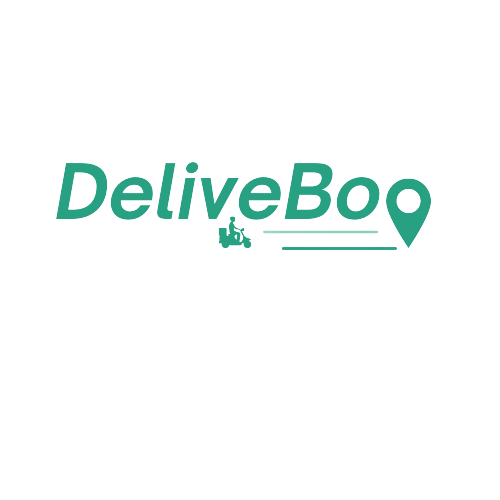
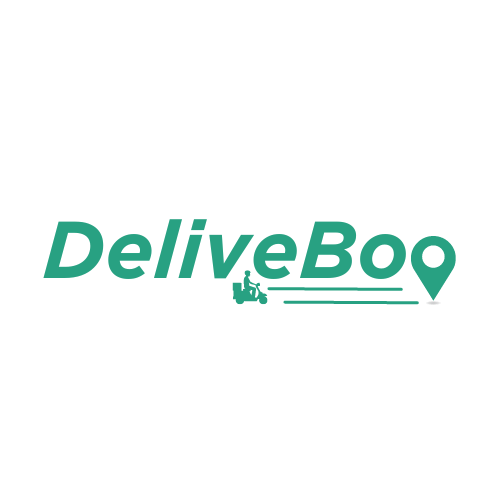
Add: Pagination and Loader edited

Changed region(s): [[0.09, 0.3, 0.93, 0.63]]

diff --git a/src/pages/RestaurantsPage.vue b/src/pages/RestaurantsPage.vue
@@ -3,12 +3,14 @@ import axios from "axios";
 import { store } from "../store.js";
 import SectionJumbo from "../components/SectionJumbo.vue";
 import RestaurantCard from "../components/RestaurantCard.vue";
+import Pagination from "../components/Pagination.vue";
 
 export default {
   name: "RestaurantsPage",
   components: {
     SectionJumbo,
     RestaurantCard,
+    Pagination
   },
   data() {
     return {
@@ -16,7 +18,6 @@ export default {
       restaurants: [],
       currentPage: 1,
       lastPage: null,
-      allRestaurants: 0,
       loading: false,
       types: [],
 
@@ -33,10 +34,21 @@ export default {
         this.types = resp.data.results;
       });
     },
-    getRestaurants() {
-      axios.get(`${store.ApiRestaurantsUrl}`).then((resp) => {
+    getRestaurants(pageNumber = 1) {
+      this.loading = true;
+      const params = {
+        page: pageNumber
+      }
+
+      axios.get(`${store.ApiRestaurantsUrl}`, { params }).then((resp) => {
         console.log(resp);
         this.restaurants = resp.data.results.data;
+        this.currentPage = resp.data.results.current_page;
+        // console.log(this.currentPage);
+        this.lastPage = resp.data.results.last_page;
+        this.allRestaurants = resp.data.results.total;
+      }).finally(() => {
+        this.loading = false;
       });
     }
   }
@@ -56,16 +68,22 @@ export default {
       <main class="text-center my-5 ms_main">
         <div class="container-fluid my-3">
           <div class="row row-cols-5 g-3 justify-content-center flex-wrap">
+
+            <!-- Card Section -->
             <div class="ms_col" v-for="restaurant in restaurants" :key="restaurant.name">
               <RestaurantCard :restaurant="restaurant" />
             </div>
           </div>
+
+
+          <!-- Pagination -->
+          <Pagination :currentPage="currentPage" :lastPage="lastPage" @changePage="getRestaurants" />
         </div>
       </main>
     </section>
 
     <section v-else>
-      <h1 class="">Caricamento...</h1>
+      <span class="text-center ms_loader"></span>
     </section>
 
 
@@ -90,5 +108,64 @@ export default {
       }
     }
   }
-}
-</style>
+  .ms_loader {
+    width: 48px;
+    height: 48px;
+    display: block;
+    margin: 20px auto;
+    box-sizing: border-box;
+    position: relative;
+  }
+
+  .ms_loader::after {
+    content: '';
+    box-sizing: border-box;
+    width: 48px;
+    height: 48px;
+    left: 0;
+    bottom: 0;
+    position: absolute;
+    border-radius: 50% 50% 0;
+    border: 15px solid $green_deli;
+    transform: rotate(45deg) translate(0, 0);
+    box-sizing: border-box;
+    animation: animMarker 0.4s ease-in-out infinite alternate;
+  }
+
+  .ms_loader::before {
+    content: '';
+    box-sizing: border-box;
+    position: absolute;
+    left: 0;
+    right: 0;
+    margin: auto;
+    top: 150%;
+    width: 24px;
+    height: 4px;
+    border-radius: 50%;
+    background: rgba(0, 0, 0, 0.2);
+    animation: animShadow 0.4s ease-in-out infinite alternate;
+  }
+
+  @keyframes animMarker {
+    0% {
+      transform: rotate(45deg) translate(5px, 5px);
+    }
+
+    100% {
+      transform: rotate(45deg) translate(-5px, -5px);
+    }
+  }
+
+  @keyframes animShadow {
+    0% {
+      transform: scale(0.5);
+    }
+
+    100% {
+      transform: scale(1);
+    }
+  }
+
+
+}</style>

diff --git a/src/components/Pagination.vue b/src/components/Pagination.vue
@@ -1,0 +1,53 @@
+<script>
+export default {
+    name: "Pagination",
+    props: {
+        currentPage: Number,
+        lastPage: Number
+    },
+    emits: [
+        "changePage"
+    ]
+}
+
+</script>
+
+<template>
+    <div>
+        <nav class="mt-4 d-flex justify-content-center" aria-label="Page navigation example">
+            <ul class="pagination">
+
+                <!-- Previous -->
+                <li class="page-item" :class="{ 'disabled': currentPage === 1 }">
+                    <a @click.prevent="$emit('changePage', currentPage - 1)" class="page-link" href="#"><i class="fa-solid fa-arrow-left"></i></a>
+                </li>
+
+                <li class="page-item" :class="{ 'disabled': pageNum === currentPage }" v-for="pageNum in lastPage">
+                    <a @click.prevent="$emit('changePage', )" class="page-link" href="#">{{ pageNum }}</a>
+                </li>
+
+                <!-- Next -->
+                <li class="page-item" :class="{ 'disabled': currentPage === lastPage }">
+                    <a @click.prevent="$emit('changePage', currentPage + 1)" class="page-link" href="#"><i class="fa-solid fa-arrow-right"></i></a>
+                </li>
+            </ul>
+        </nav>
+    </div>
+</template>
+
+
+<style lang="scss" scoped>
+@use "../styles/style.scss";
+@use "../styles/partials/root.scss" as *;
+.page-link {
+    height: 40px;
+    width: 70px;
+    display: flex;
+    justify-content: center;
+    align-items: center;
+    font-size: 1.2rem;
+    border-radius: 10px;
+    margin: 0 10px;
+    color: $green_deli;
+}
+</style>

diff --git a/src/components/AppHeader.vue b/src/components/AppHeader.vue
@@ -105,7 +105,7 @@ header {
             
             img {
                 position: relative;
-                top: 25%;
+                top: 0;
                 left: -40px;
                 min-width: 200px;    
             }

diff --git a/src/styles/partials/root.scss b/src/styles/partials/root.scss
@@ -1,2 +1,4 @@
 $primary_color : #FFDD44;
 $secondary_color:#FFF3DA;
+
+$green_deli: #27A182;
